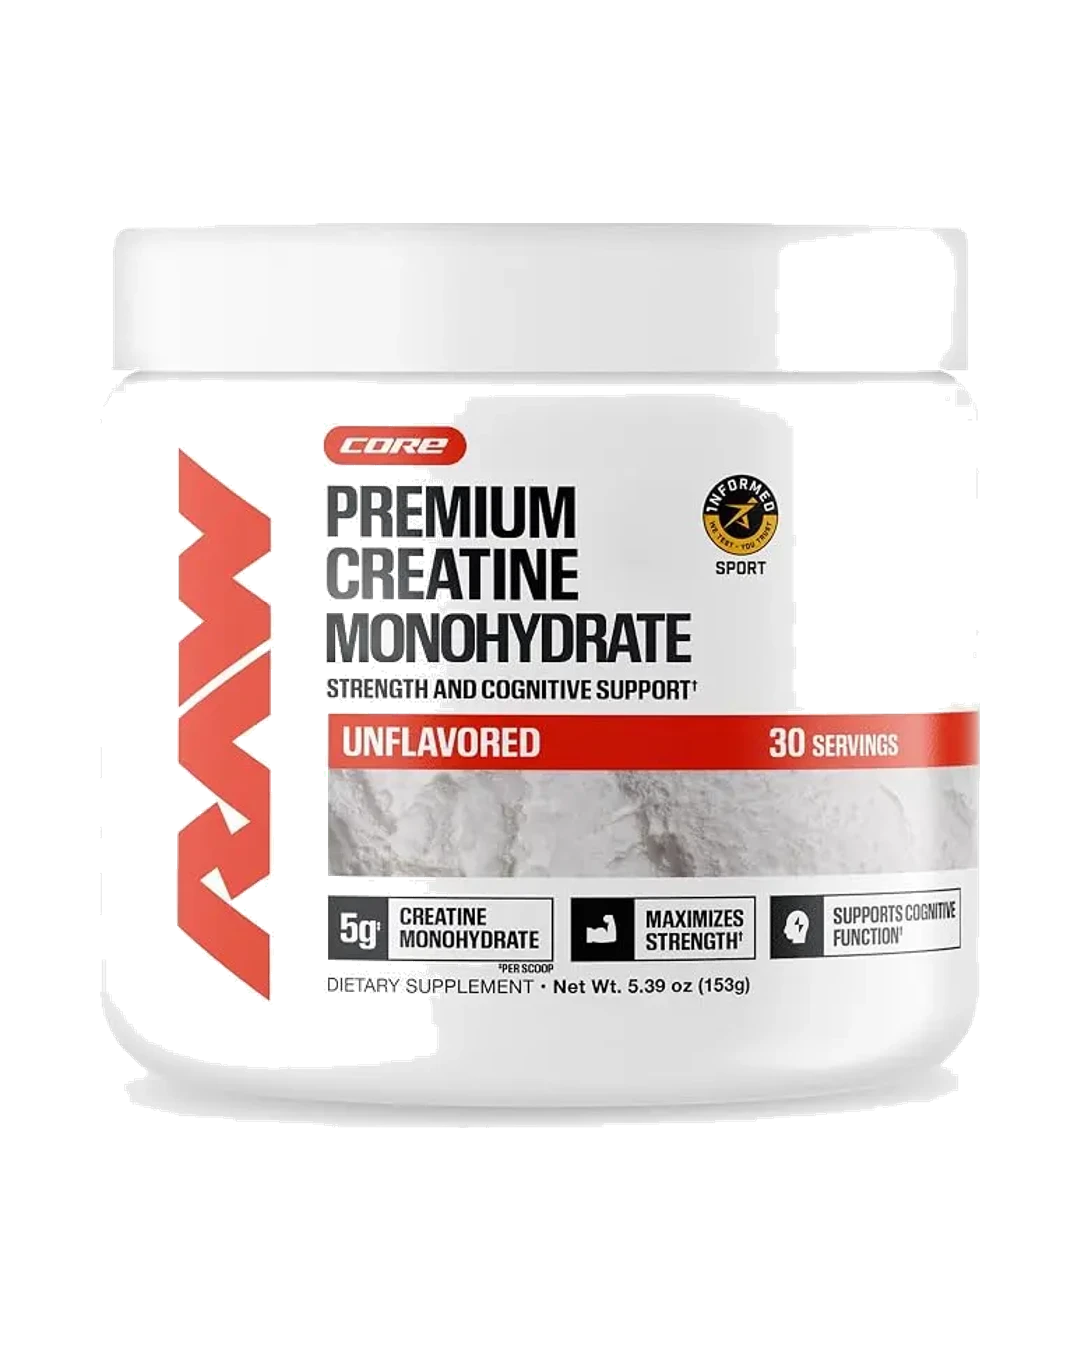
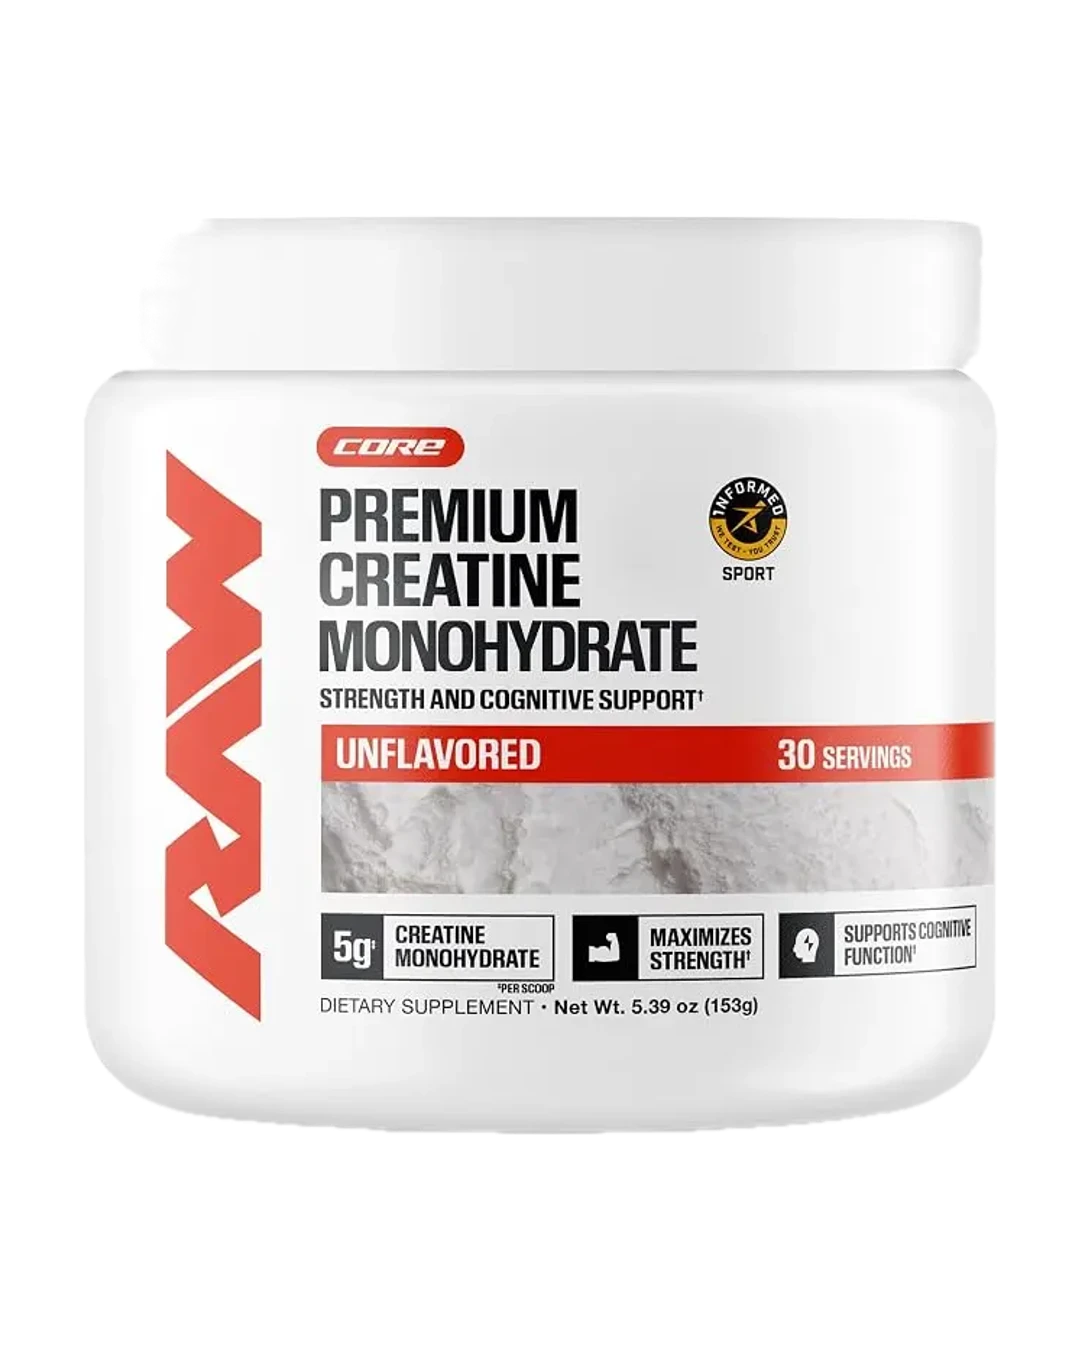
fix: restaurar y recortar limpiamente tarro de Creatina Premium en 4:5 transparente sin artefactos

diff --git a/scripts/cutout_creatine.swift b/scripts/cutout_creatine.swift
@@ -1,0 +1,52 @@
+import Cocoa
+import Vision
+import CoreImage
+
+let inputPath = "public/assets/images/marcas/raw/Creatine Monohydrate  Premium (30 Servings).webp"
+let outputPath = "public/assets/images/marcas/raw/creatine_cutout.png"
+
+guard let image = NSImage(contentsOfFile: inputPath),
+      let cgImage = image.cgImage(forProposedRect: nil, context: nil, hints: nil) else {
+    print("Failed to load image")
+    exit(1)
+}
+
+let request = VNGenerateForegroundInstanceMaskRequest()
+let handler = VNImageRequestHandler(cgImage: cgImage, options: [:])
+try handler.perform([request])
+
+guard let result = request.results?.first else {
+    print("No result from vision")
+    exit(1)
+}
+
+let maskPixelBuffer = try result.generateScaledMaskForImage(forInstances: result.allInstances, from: handler)
+
+let ciInput = CIImage(cgImage: cgImage)
+let ciMask = CIImage(cvPixelBuffer: maskPixelBuffer)
+
+// Blend: foreground = ciInput, background = clear, mask = ciMask
+let filter = CIFilter(name: "CIBlendWithMask")!
+filter.setValue(ciInput, forKey: kCIInputImageKey)
+filter.setValue(CIImage.empty(), forKey: kCIInputBackgroundImageKey)
+filter.setValue(ciMask, forKey: kCIInputMaskImageKey)
+
+guard let outputCI = filter.outputImage else {
+    print("Filter failed")
+    exit(1)
+}
+
+let context = CIContext(options: nil)
+guard let outputCG = context.createCGImage(outputCI, from: outputCI.extent) else {
+    print("Failed to create output CGImage")
+    exit(1)
+}
+
+let bitmapRep = NSBitmapImageRep(cgImage: outputCG)
+guard let pngData = bitmapRep.representation(using: .png, properties: [:]) else {
+    print("Failed to get PNG data")
+    exit(1)
+}
+
+try pngData.write(to: URL(fileURLWithPath: outputPath))
+print("Successfully wrote cutout to", outputPath)
